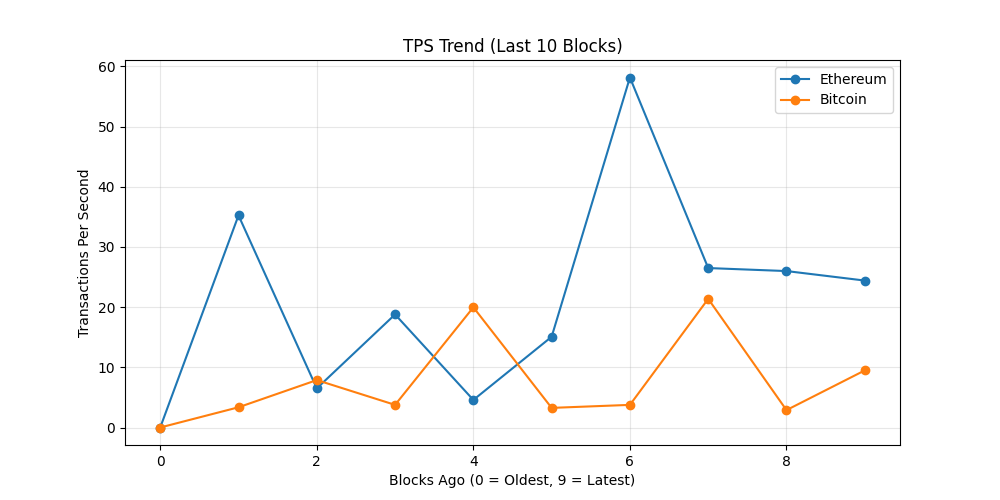
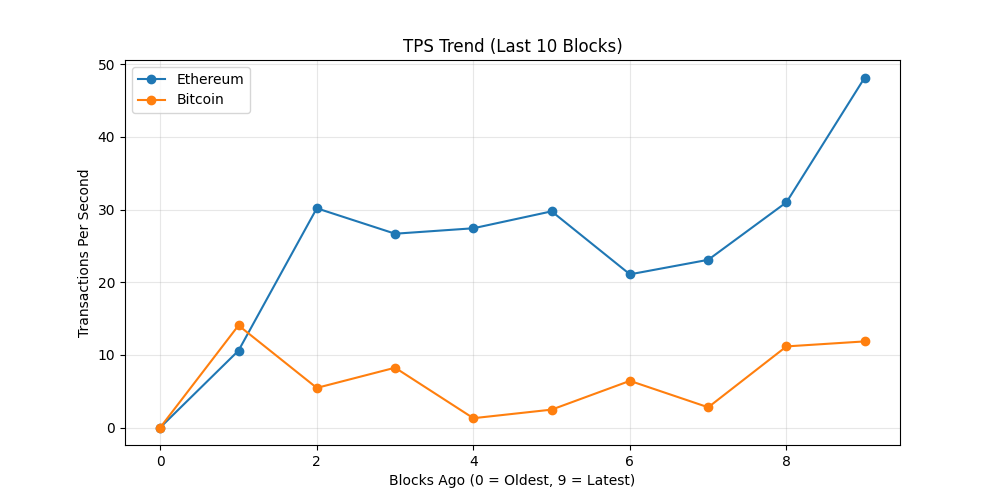
chore: update on-chain dashboard

diff --git a/README.md b/README.md
@@ -19,7 +19,7 @@ The README itself acts as the dashboard and is regenerated automatically on a 6 
 demonstrating a production-style, infrastructure-focused observability workflow rather
 than a traditional UI-driven approach.
 
-_Last updated: 2026-02-06 03:09 UTC_
+_Last updated: 2026-02-06 07:13 UTC_
 
 ## API Usage (GetBlock.io)
 - Calls used: **24**
@@ -27,8 +27,8 @@ _Last updated: 2026-02-06 03:09 UTC_
 ## Network Metrics
 | Chain | Block Height | TX Count | TPS (10 blk avg) | Block Util | Avg Fee |
 |------|-------------|----------|------------------|------------|---------|
-| Ethereum | 24395006 | 293 | 24.42 | 44.45% | 0.6 Gwei |
-| Bitcoin | 935196 | 2855 | 9.49 | 99.8% | N/A |
+| Ethereum | 24396213 | 578 | 48.17 | 53.34% | 0.5 Gwei |
+| Bitcoin | 935219 | 1860 | 11.85 | 99.8% | N/A |
 
 ## Visuals
 ### Transactions Trend
@@ -43,8 +43,10 @@ _Last updated: 2026-02-06 03:09 UTC_
 ## Whale Alerts (latest block)
 - Transaction hashes are truncated for readability.
 - Full hashes are available in `dashboards/metrics.json`
-- Bitcoin | 429.89 BTC | `29de3aeb4f2f…`
-- Bitcoin | 449.5 BTC | `3c474d78eaae…`
+- Bitcoin | 140.9 BTC | `11912f1fee21…`
+- Bitcoin | 157.98 BTC | `6dc8a7038b0f…`
+- Bitcoin | 916.54 BTC | `e61592317ee7…`
+- Bitcoin | 508.34 BTC | `b38515593eea…`
 
 ## Run locally
 
